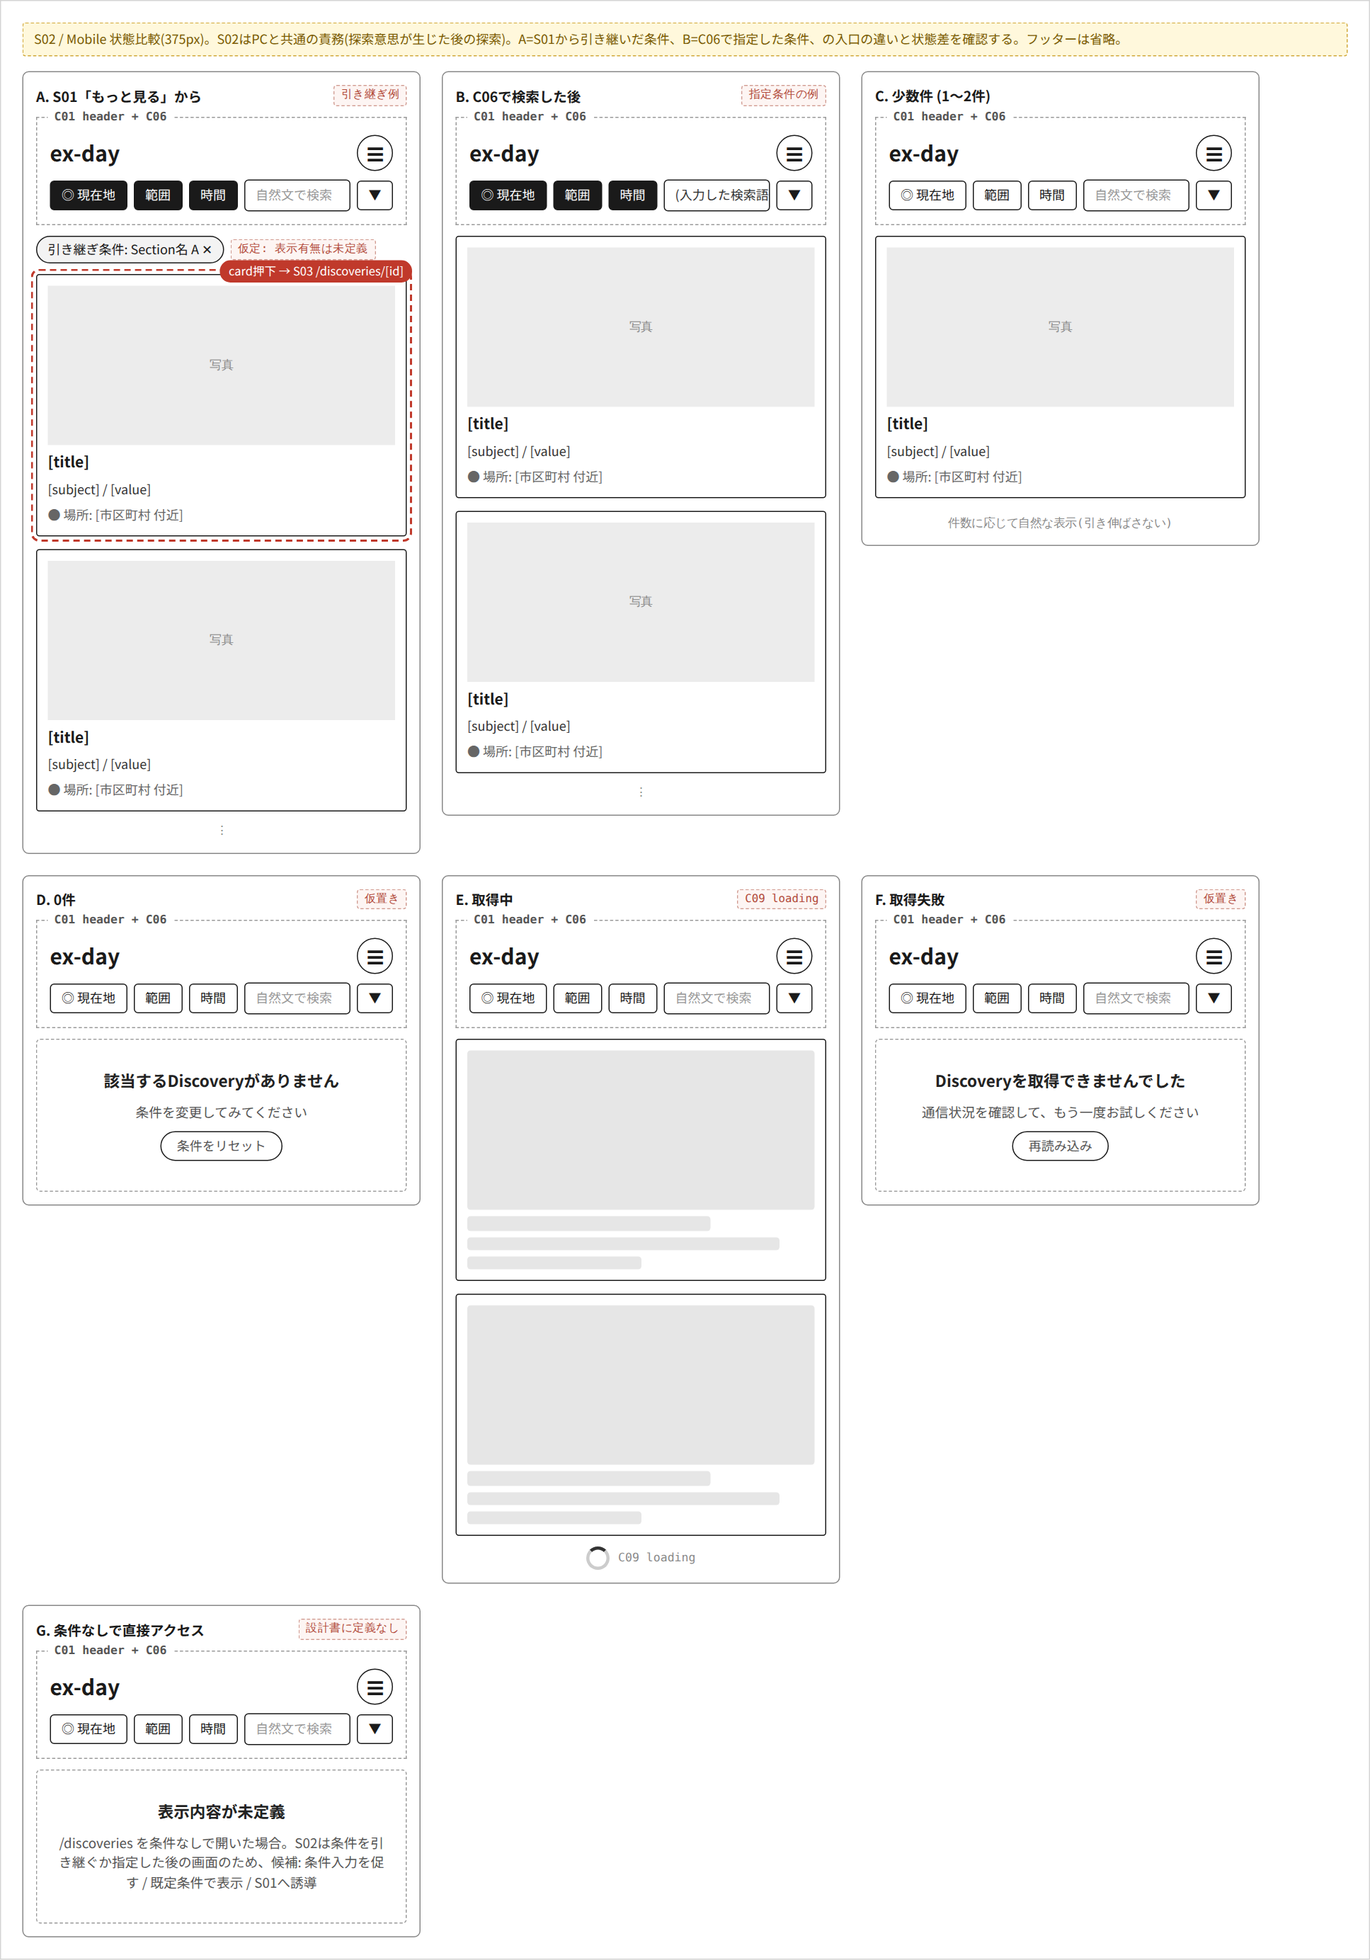
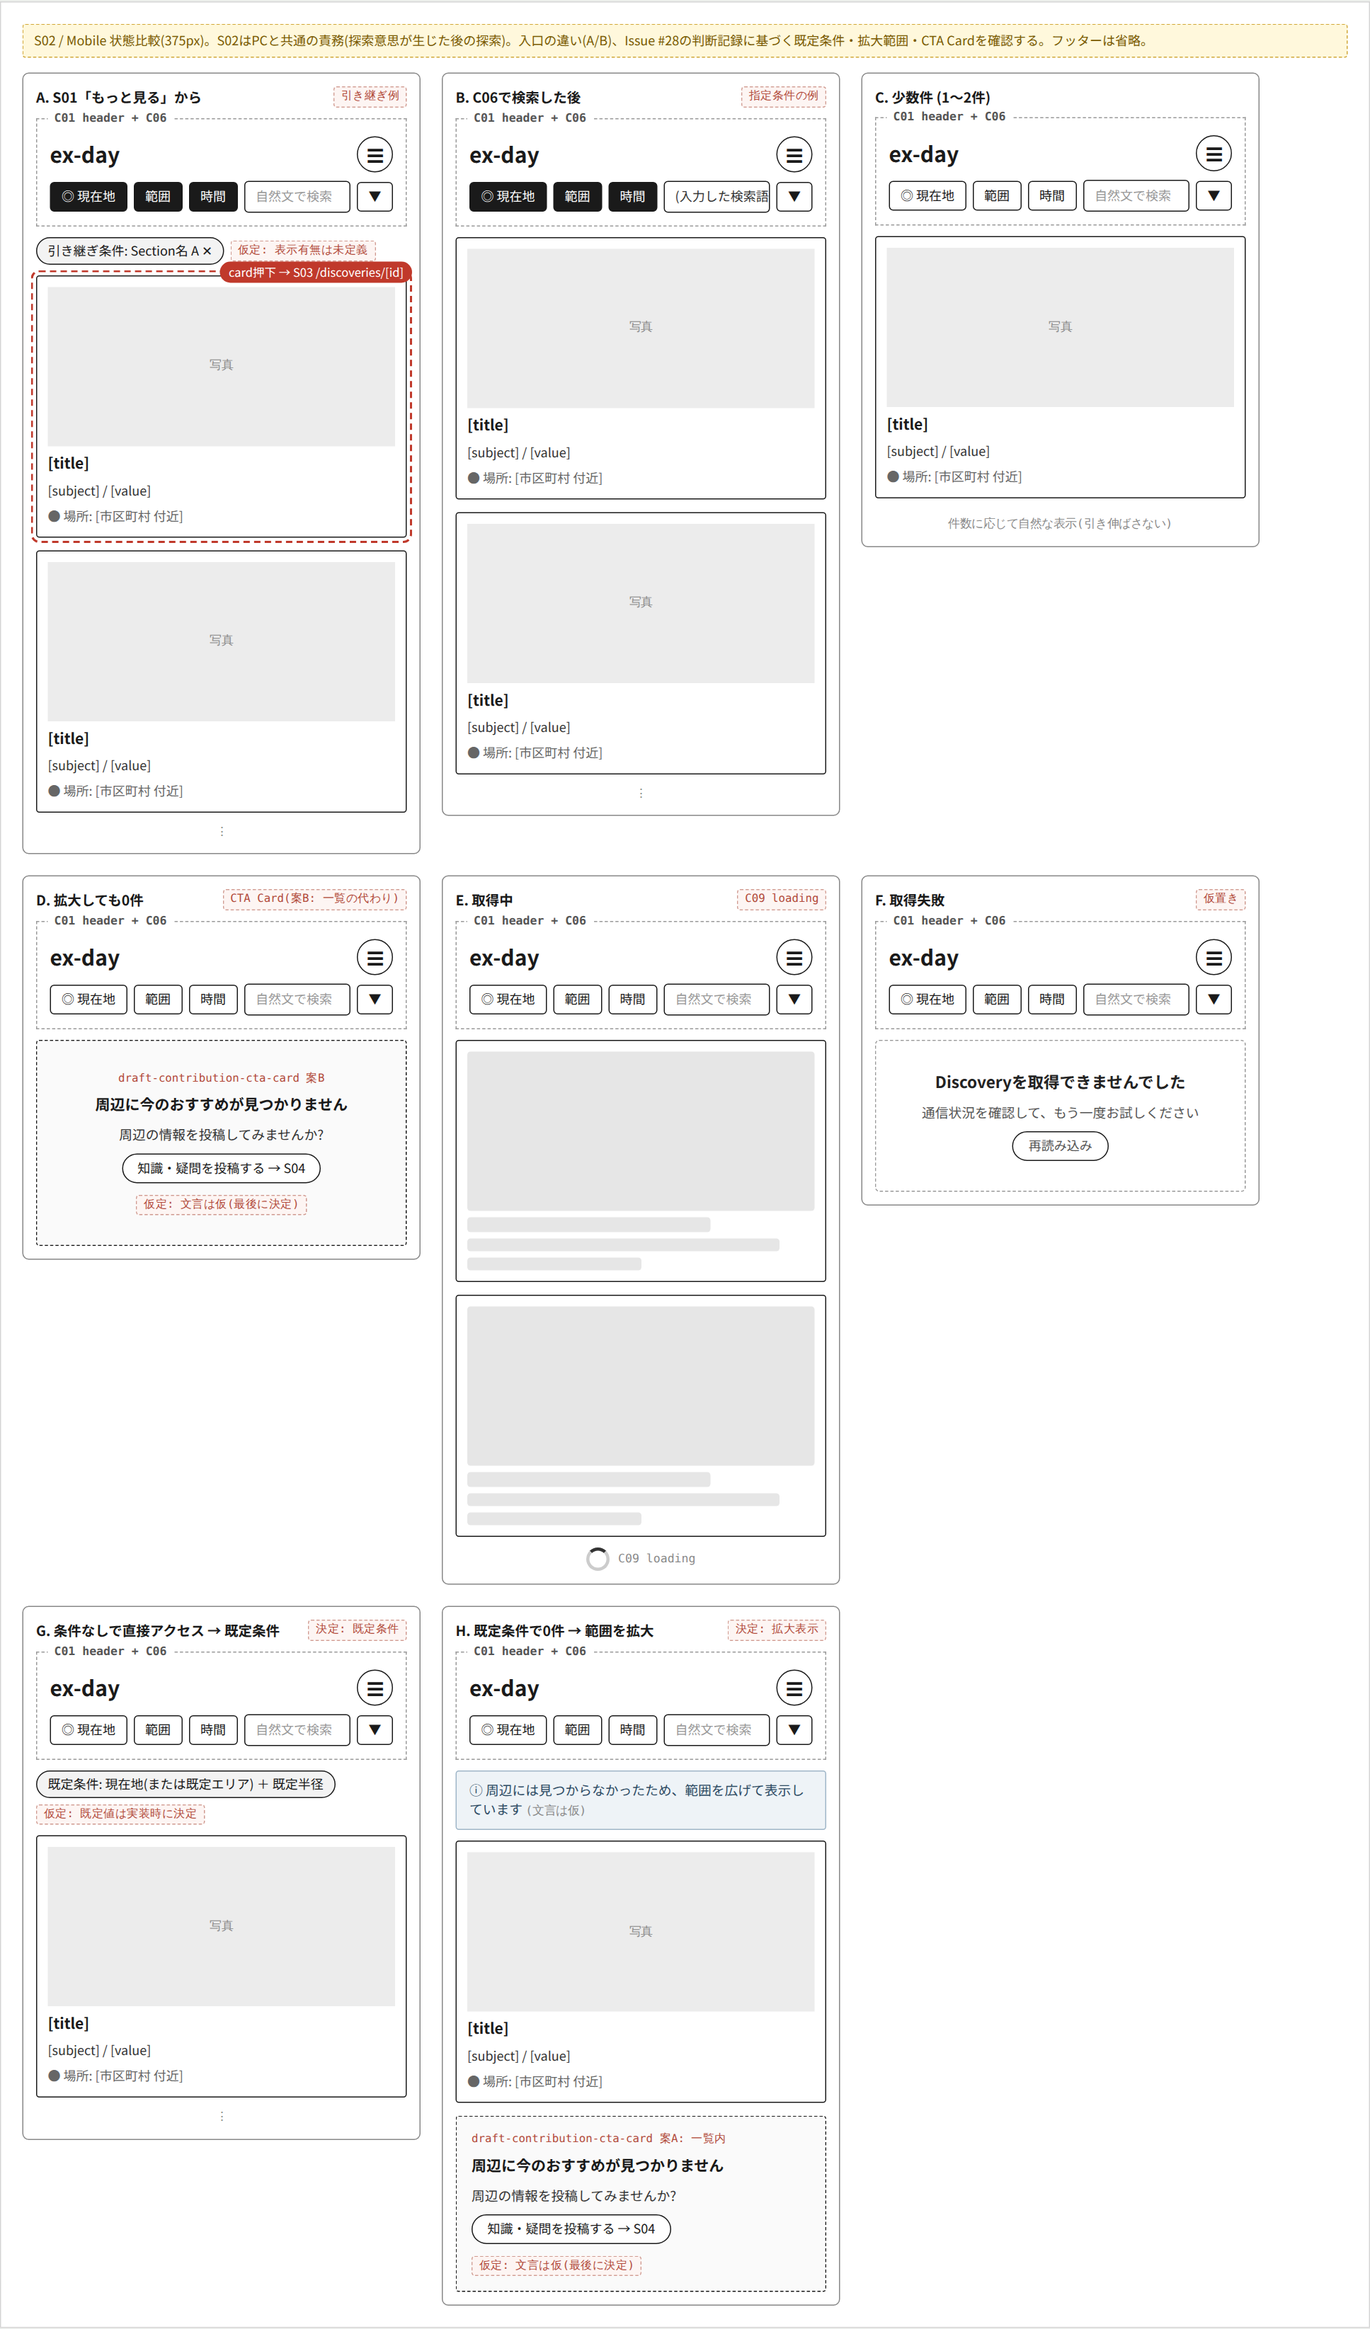
S02ワイヤーフレーム作成レビュー結果反映

diff --git a/docs/ai/claude/wireframe/S02-wireframe-source.html b/docs/ai/claude/wireframe/S02-wireframe-source.html
@@ -72,6 +72,11 @@ body{margin:0;background:var(--pg);color:var(--ink);font:14px/1.7 'Noto Sans JP'
 .rail .card .ph{height:70px}
 .more{width:110px;flex:none;border:1.5px dashed #c0392b;border-radius:3px;display:flex;align-items:center;justify-content:center;text-align:center;font-size:12px;color:#c0392b;padding:6px}
 .cnd{display:inline-flex;gap:6px;align-items:center;border:1.5px solid #1a1a1a;border-radius:14px;padding:3px 10px;font-size:12px;background:#f3f3f3}
+.cta{border:1.5px dashed #1a1a1a;border-radius:3px;background:#fafafa;padding:14px;display:flex;flex-direction:column;gap:8px;align-items:flex-start;position:relative;min-width:0}
+.cta b{font-size:14px}
+.cta .txt{font-size:12.5px;color:#333}
+.cta .k2{font:10.5px 'IBM Plex Mono','DejaVu Sans Mono',monospace;color:#b24a3a}
+.notice{background:#eef3f7;border:1px solid #9fb6c8;color:#2c4a63;font-size:12.5px;padding:8px 12px;border-radius:3px}
 </style>
 
 <div class="wrap">
@@ -85,15 +90,17 @@ body{margin:0;background:var(--pg);color:var(--ink);font:14px/1.7 'Noto Sans JP'
     <li><a href="#pc-layout">PC-LayoutVariants</a></li>
     <li><a href="#mobile-layout">Mobile-LayoutVariants</a></li>
     <li><a href="#relations">S03-RelationsEntryVariants</a></li>
+    <li><a href="#cta-variants">C21 Contribution CTA</a></li>
   </ul>
 
   <section class="sec"><h2 id="pc-main-h">1. PC-Main — S01「もっと見る」から条件を引き継いだ探索一覧</h2><p class="cap">S02はPC/Mobile共通の責務(探索意思が生じた後の能動的な探索)。S01のC05「もっと見る」から提案テーマの条件を引き継いだ状態。C04は4列グリッド(S01 PC-Mainの採用表現と同じ)。</p><div class="scroll"><div id="pc-main" class="board" style="width:1440px"></div></div></section>
   <section class="sec"><h2>2. Mobile-Main — S01「もっと見る」から条件を引き継いだ探索一覧</h2><p class="cap">PR #29の責務境界により、モバイルのTOPはS01(タブ+縦方向)。S02はPCと同じ探索一覧の責務で、モバイルの表示を描いています。</p><div class="scroll"><div id="mobile-main" class="board" style="width:375px"></div></div></section>
-  <section class="sec"><h2>3. PC-StateVariants — 件数・取得状態の比較</h2><p class="cap">少数件 / 0件 / 取得中 / 取得失敗 / 条件なし直接アクセス。0件・失敗・条件なしの表示は設計書に定義がなく、比較用の仮置きです。</p><div class="scroll"><div id="pc-states" class="board" style="width:1460px"></div></div></section>
-  <section class="sec"><h2>4. Mobile-StateVariants — 入口(条件の出どころ)と状態の比較</h2><p class="cap">S01から引き継いだ条件 / C06で指定した条件 / 少数件 / 0件 / 取得中 / 取得失敗 / 条件なし直接アクセス(未定義)。</p><div class="scroll"><div id="mobile-states" class="board" style="width:1290px"></div></div></section>
+  <section class="sec"><h2>3. PC-StateVariants — 件数・取得状態の比較</h2><p class="cap">少数件 / 0件 / 取得中 / 取得失敗 / 条件なし直接アクセス。失敗の表示は設計書に定義がなく仮置き。既定条件・拡大表示・CTA CardはIssue #28の判断記録に基づく比較用の例です。</p><div class="scroll"><div id="pc-states" class="board" style="width:1460px"></div></div></section>
+  <section class="sec"><h2>4. Mobile-StateVariants — 入口(条件の出どころ)と状態の比較</h2><p class="cap">S01から引き継いだ条件 / C06で指定した条件 / 少数件 / 拡大しても0件 / 取得中 / 取得失敗 / 既定条件 / 範囲拡大表示。</p><div class="scroll"><div id="mobile-states" class="board" style="width:1290px"></div></div></section>
   <section class="sec"><h2>5. PC-LayoutVariants — C03/C04 レイアウト比較</h2><p class="cap">カード幅・表示方向・情報量の比較(後続検討事項の整理用)。</p><div class="scroll"><div id="pc-layout" class="board" style="width:1440px"></div></div></section>
   <section class="sec"><h2>6. Mobile-LayoutVariants — C03/C04 レイアウト比較</h2><p class="cap">縦型1列 / 横型 / 2列コンパクト。</p><div class="scroll"><div id="mobile-layout" class="board" style="width:1290px"></div></div></section>
   <section class="sec"><h2>7. S03-RelationsEntryVariants — 関係Discovery「さらに見る」の遷移先比較</h2><p class="cap">S02の条件付き表示として再利用する案と、関係Discovery専用の一覧とする案の比較材料。どちらも未採用です。</p><div class="scroll"><div id="relations" class="board" style="width:1440px"></div></div></section>
+  <section class="sec"><h2>8. C21 Contribution CTA — 0件・情報不足時の投稿導線</h2><p class="cap">C21(定義書: C21-contribution-cta.md、PR #30)。表示位置の3案を比較。</p><div class="scroll"><div id="cta-variants" class="board" style="width:1290px"></div></div></section>
 </div>
 
 <script>
@@ -116,6 +123,11 @@ function card(o){o=o||{};var k=o.k!==false,v=o.v||'v';
 }
 function cards(n,o){var s='';for(var i=0;i<n;i++){var oo=Object.assign({},o||{});if(i!==0){oo.go=false;oo.hi=false}s+=card(oo)}return s}
 function skel(v){return '<div class="card"><div class="sk" style="height:'+(v==='c'?90:150)+'px"></div><div class="sk" style="height:14px;width:70%"></div><div class="sk" style="height:12px;width:90%"></div><div class="sk" style="height:12px;width:50%"></div></div>'}
+
+
+function cta(o){o=o||{};return '<div class="cta" style="'+(o.st||'')+'"><span class="k2">C21 Contribution CTA '+(o.tag||'')+'</span><b>周辺に今のおすすめが見つかりません</b><span class="txt">周辺の情報を投稿してみませんか?</span><span class="btn">知識・疑問を投稿する → S04</span>'+(o.wording===false?'':'<span>'+asm('文言は仮(最後に決定)')+'</span>')+'</div>'}
+function notice(){return '<div class="notice">ⓘ 周辺には見つからなかったため、範囲を広げて表示しています <span class="k">(文言は仮)</span></div>'}
+function defChip(){return '<div class="row" style="gap:6px;flex-wrap:wrap"><span class="cnd">既定条件: 現在地(または既定エリア) ＋ 既定半径</span>'+asm('既定値は実装時に決定')+'</div>'}
 
 /* Headers */
 function search(v){ // C06 (PC row)
@@ -158,26 +170,28 @@ $('mobile-main').innerHTML='<div style="padding:12px;display:flex;flex-direction
 /* ---------- 3. PC-StateVariants ---------- */
 function pcPanel(title,badge,body){return '<div class="panel" style="width:690px"><div class="ph-h"><span>'+title+'</span>'+(badge?'<span class="assume">'+badge+'</span>':'')+'</div><div class="body">'+body+'</div></div>'}
 function pcStub(){return '<div class="row" style="justify-content:space-between;border:1px dashed #9a9a9a;padding:8px 10px;margin-bottom:10px"><b>ex-day</b><span class="k">C01 header + C06 search (省略)</span><div class="hamb" style="width:26px;height:26px;font-size:12px">☰</div></div>'}
-$('pc-states').innerHTML='<div style="padding:20px 24px"><div class="note" style="margin-bottom:14px">S02 / PC 状態比較。ヘッダーは省略。0件・取得失敗の文言・部品は設計書にないため仮置き(コンポーネント化する場合は定義追加とC番号の採番が必要 — 採番は人間)。</div>'+
+$('pc-states').innerHTML='<div style="padding:20px 24px"><div class="note" style="margin-bottom:14px">S02 / PC 状態比較(Issue #28の判断記録に基づく)。ヘッダーは省略。既定条件・拡大範囲・CTA Cardの文言は仮。CTA CardはC21 Contribution CTA。</div>'+
  '<div style="display:flex;flex-wrap:wrap;gap:20px">'+
  pcPanel('A. 少数件 (2件)','','<div class="g4">'+cards(2,{k:false,ph:'height:110px'})+'<div></div><div></div></div><div style="margin-top:10px" class="k">残りの列は空けたまま(引き伸ばさない)。件数に応じた見せ方はNon-blocking</div>')+
- pcPanel('B. 0件','仮置き',pcStub()+'<div class="empty"><b>該当するDiscoveryがありません</b><span style="font-size:12.5px">条件を変更すると一覧が更新されます(C06)</span><span class="btn">条件をリセット</span></div>')+
+ pcPanel('B. 拡大しても0件','C21(案B: 一覧の代わり)',pcStub()+cta({st:'align-items:center;text-align:center;padding:28px 16px',tag:'案B'}))+
  pcPanel('C. 取得中','C09 loading',pcStub()+'<div class="g4">'+skel()+skel()+skel()+skel()+'</div><div class="row" style="justify-content:center;margin-top:10px;gap:8px"><div class="spin"></div><span class="k">C09 loading(画面内表示の例)</span></div>')+
  pcPanel('D. 取得失敗','仮置き',pcStub()+'<div class="empty"><b>Discoveryを取得できませんでした</b><span style="font-size:12.5px">通信状況を確認して、もう一度お試しください</span><span class="btn">再読み込み</span></div>')+
- pcPanel('E. 条件なしで直接アクセス','設計書に定義なし',pcStub()+'<div class="empty"><b>表示内容が未定義</b><span style="font-size:12.5px">/discoveries を条件なしで開いた場合。候補: 条件入力を促す / 既定条件で表示 / S01へ誘導</span></div>')+
+ pcPanel('E. 条件なしで直接アクセス → 既定条件で表示','決定: 既定条件',pcStub()+defChip()+'<div class="g4" style="margin-top:10px">'+cards(4,{k:false,ph:'height:90px'})+'</div>')+
+ pcPanel('F. 既定条件で0件 → 範囲を拡大して表示','決定: 拡大表示',pcStub()+notice()+'<div class="g4" style="margin-top:10px">'+cards(3,{k:false,ph:'height:90px'})+cta({st:'height:100%',tag:'案A: 一覧内'})+'</div>')+
  '</div></div>';
 
 /* ---------- 4. Mobile-StateVariants ---------- */
 function mPanel(title,badge,body,hdr){return '<div class="phone"><div class="row" style="justify-content:space-between"><b style="font-size:13px">'+title+'</b>'+(badge?'<span class="assume">'+badge+'</span>':'')+'</div>'+mHeader(hdr)+body+'</div>'}
-$('mobile-states').innerHTML='<div style="padding:20px"><div class="note" style="margin-bottom:14px">S02 / Mobile 状態比較(375px)。S02はPCと共通の責務(探索意思が生じた後の探索)。A=S01から引き継いだ条件、B=C06で指定した条件、の入口の違いと状態差を確認する。フッターは省略。</div>'+
+$('mobile-states').innerHTML='<div style="padding:20px"><div class="note" style="margin-bottom:14px">S02 / Mobile 状態比較(375px)。S02はPCと共通の責務(探索意思が生じた後の探索)。入口の違い(A/B)、Issue #28の判断記録に基づく既定条件・拡大範囲・CTA Cardを確認する。フッターは省略。</div>'+
  '<div style="display:flex;flex-wrap:wrap;gap:20px;align-items:flex-start">'+
  mPanel('A. S01「もっと見る」から','引き継ぎ例','<div class="row" style="gap:6px;flex-wrap:wrap"><span class="cnd">引き継ぎ条件: Section名 A ✕</span>'+asm('表示有無は未定義')+'</div><div class="col">'+cards(2,{k:false,go:true,hi:true})+'</div><div class="k" style="text-align:center">⋮</div>',{on:true})+
  mPanel('B. C06で検索した後','指定条件の例','<div class="col">'+cards(2,{k:false})+'</div><div class="k" style="text-align:center">⋮</div>',{on:true,text:'(入力した検索語)'})+
  mPanel('C. 少数件 (1〜2件)','','<div class="col">'+cards(1,{k:false})+'</div><div class="k" style="text-align:center;margin-top:6px">件数に応じて自然な表示(引き伸ばさない)</div>')+
- mPanel('D. 0件','仮置き','<div class="empty"><b>該当するDiscoveryがありません</b><span style="font-size:12.5px">条件を変更してみてください</span><span class="btn">条件をリセット</span></div>')+
+ mPanel('D. 拡大しても0件','C21(案B: 一覧の代わり)',cta({st:'align-items:center;text-align:center;padding:28px 14px',tag:'案B'}))+
  mPanel('E. 取得中','C09 loading','<div class="col">'+skel()+skel()+'</div><div class="row" style="justify-content:center;gap:8px"><div class="spin"></div><span class="k">C09 loading</span></div>')+
  mPanel('F. 取得失敗','仮置き','<div class="empty"><b>Discoveryを取得できませんでした</b><span style="font-size:12.5px">通信状況を確認して、もう一度お試しください</span><span class="btn">再読み込み</span></div>')+
- mPanel('G. 条件なしで直接アクセス','設計書に定義なし','<div class="empty"><b>表示内容が未定義</b><span style="font-size:12.5px">/discoveries を条件なしで開いた場合。S02は条件を引き継ぐか指定した後の画面のため、候補: 条件入力を促す / 既定条件で表示 / S01へ誘導</span></div>')+
+ mPanel('G. 条件なしで直接アクセス → 既定条件','決定: 既定条件',defChip()+'<div class="col">'+cards(1,{k:false})+'</div><div class="k" style="text-align:center">⋮</div>')+
+ mPanel('H. 既定条件で0件 → 範囲を拡大','決定: 拡大表示',notice()+'<div class="col">'+cards(1,{k:false})+cta({tag:'案A: 一覧内'})+'</div>')+
  '</div></div>';
 
 /* ---------- 5. PC-LayoutVariants ---------- */
@@ -222,6 +236,18 @@ $('relations').innerHTML='<div style="padding:24px 32px">'+
  '<tr><td>設計書への影響</td><td>S02の表示項目・アクション・条件の引き継ぎ仕様の追記</td><td>screen-list / screen-transition / 新規画面定義の追加</td></tr>'+
  '</tbody></table>'+
  '<div style="margin-top:10px;font-size:12px;color:#7a5b00">※ 本表は判断材料であり、どちらも未採用です。決定はNext.jsモックとS02の責務との整合確認後に人間が行います(S03検討事項)。</div></div>';
+
+/* ---------- 8. CTA card variants ---------- */
+function cp(title,badge,note,body){return '<div class="panel" style="width:400px"><div class="ph-h"><span>'+title+'</span><span class="badge" style="font-size:11px">'+badge+'</span></div><div class="body">'+body+'<div style="margin-top:10px;font-size:12px;color:#444">'+note+'</div></div></div>'}
+$('cta-variants').innerHTML='<div style="padding:20px 24px"><div class="note" style="margin-bottom:14px">C21 Contribution CTA: Discoveryが見つからない/少ないときの「投稿してみませんか」導線(遷移先S04)。Discoveryではないため C03 は再利用しない。表示条件(0件のみ/少数件も/拡大後も不足時)・表示場所は未確定で、3案を比較する。文言は最後に決定。S01のタブが0件のときも同じ部品を使うかは未確定。</div>'+
+ '<div style="display:flex;gap:20px;align-items:flex-start">'+
+ cp('案A: 一覧内のカード','一覧に混在','拡大範囲のDiscoveryに続けて、末尾に1枚置く。少数件でも出せる。Discoveryと混同されないよう見た目を変える。',
+   '<div class="col">'+cards(2,{k:false,v:'c'})+cta({tag:'案A'})+'</div>')+
+ cp('案B: 一覧の代わりに表示','0件専用','拡大しても0件のときだけ、一覧の領域全体に表示。表示条件が最も単純だが、少数件では出ない。',
+   cta({st:'align-items:center;text-align:center;padding:36px 14px',tag:'案B'}))+
+ cp('案C: 一覧上部のバナー','常時/条件付き','拡大表示の通知と並べて上部に置く。Discoveryが見えている状態でも投稿へ誘導できるが、一覧の先頭を占有する。',
+   notice()+'<div style="height:10px"></div><div class="cta" style="flex-direction:row;align-items:center;justify-content:space-between;gap:10px;padding:10px 12px"><div><span class="k2">C21 Contribution CTA 案C</span><br><span class="txt"><b style="font-size:13px">周辺情報を投稿してみませんか?</b></span></div><span class="btn">投稿する → S04</span></div><div style="height:10px"></div><div class="col">'+cards(1,{k:false,v:'c'})+'</div>')+
+ '</div></div>';
 })();
 </script>
 </body></html>
